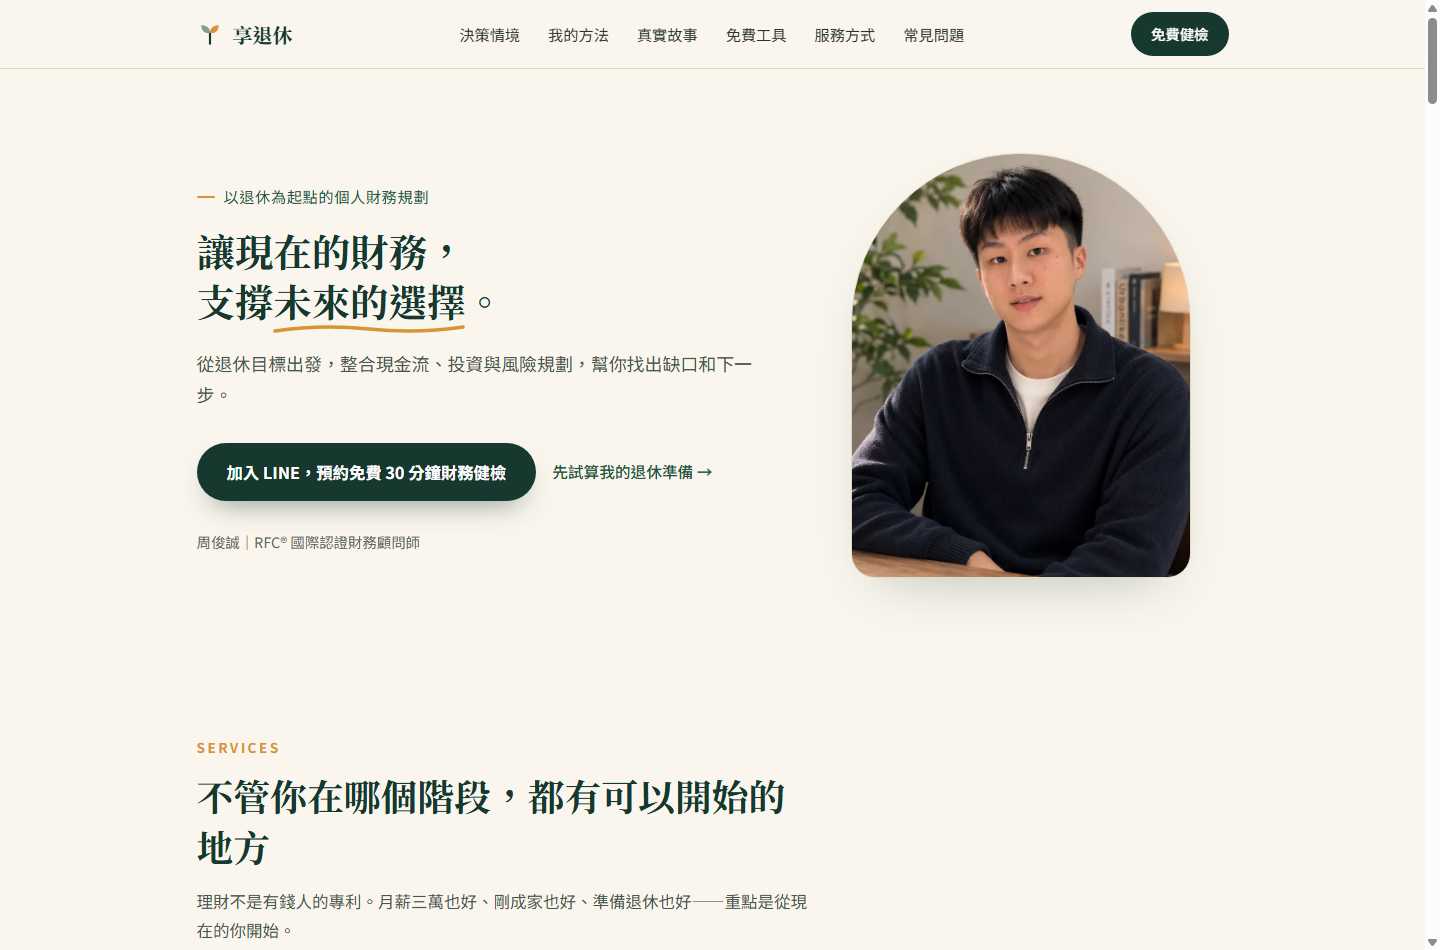
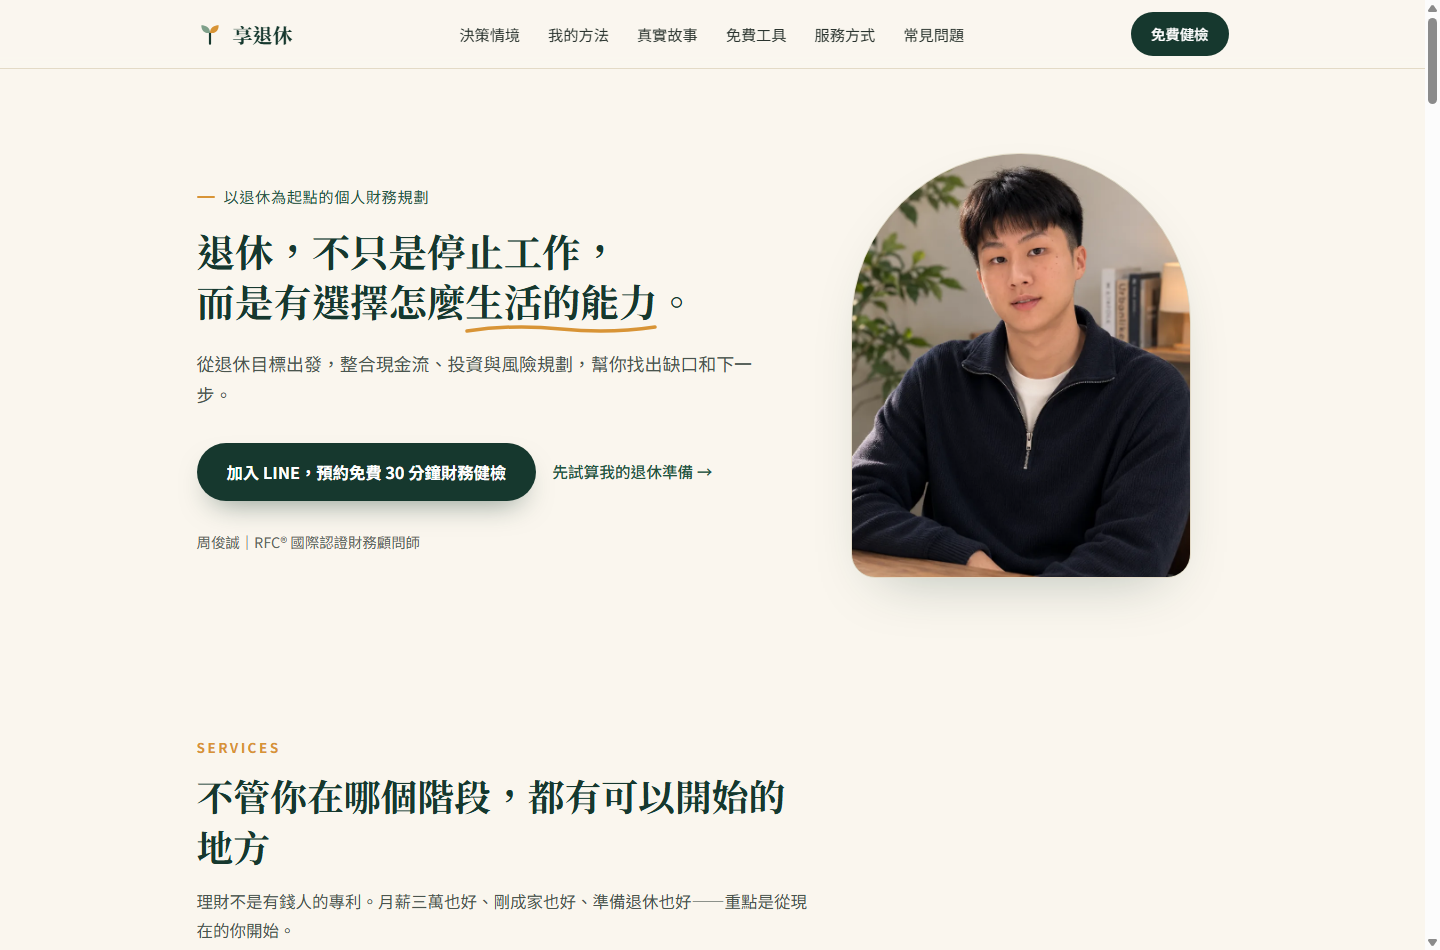
update

Changed region(s): [[0.125, 0.2442, 0.4688, 0.3663]]

diff --git a/index.html b/index.html
@@ -43,7 +43,7 @@
   <div class="wrap hero-grid">
     <div class="hero-copy">
       <p class="hero-kicker">以退休為起點的個人財務規劃</p>
-      <h1>讓現在的財務，<br class="hero-h1-br">支撐<span class="hl">未來的選擇<svg viewBox="0 0 200 12" preserveAspectRatio="none" aria-hidden="true"><path d="M2 9 Q 50 2, 100 7 T 198 5" fill="none" stroke="#D89436" stroke-width="3.5" stroke-linecap="round"/></svg></span>。</h1>
+      <h1>退休，不只是停止工作，<br class="hero-h1-br">而是有選擇怎麼<span class="hl">生活的能力<svg viewBox="0 0 200 12" preserveAspectRatio="none" aria-hidden="true"><path d="M2 9 Q 50 2, 100 7 T 198 5" fill="none" stroke="#D89436" stroke-width="3.5" stroke-linecap="round"/></svg></span>。</h1>
       <p class="lead">從退休目標出發，整合現金流、投資與風險規劃，幫你找出缺口和下一步。</p>
       <div class="hero-cta">
         <a class="btn btn-lg hero-cta-primary" href="https://line.me/R/ti/p/@453ubihw" target="_blank" rel="noopener" onclick="window.gtag&&gtag('event','click_line_hero')">加入 LINE，預約免費 30 分鐘財務健檢</a>

diff --git a/css/styles.css b/css/styles.css
@@ -429,7 +429,8 @@ footer .disc{max-width:720px;margin-top:10px;line-height:1.7}
   .quote{flex-basis:100%}        /* 手機:一頁 1 則 */
   .q-nav{display:none}           /* 改用滑動 + 圓點 */
   /* 手機:主標題放大(約36–40px)、行高緊湊;隱藏桌機強制斷行,標題自然平衡成2–3行 */
-  .hero h1{font-size:clamp(2.1rem,8.9vw,2.4rem);line-height:1.25;margin-bottom:18px}
+  .hero h1{font-size:clamp(2.05rem,8.4vw,2.3rem);line-height:1.22;margin-bottom:18px}
+  .hero-h1-br{display:none}
   .hero p.lead{font-size:1.06rem;line-height:1.6;margin-bottom:26px}
   .hero .btn.btn-lg{padding:15px 18px;font-size:.95rem}
 }
